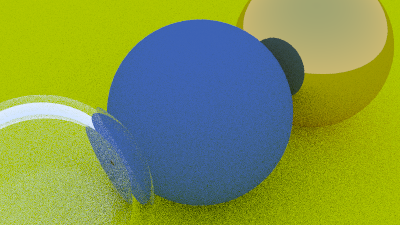
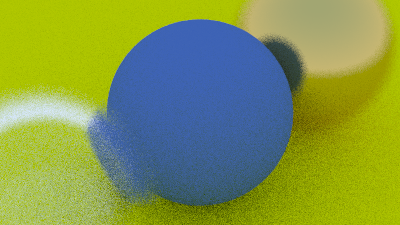
[13] - Defocus Blur

diff --git a/utils/camera.py b/utils/camera.py
@@ -1,5 +1,5 @@
 from .point import Point
-from .vector import Vector
+from .vector import Vector, random_in_unit_disk
 from .ray import Ray
 from .hittable import Hittable, HitRecord
 from .color import Color
@@ -20,12 +20,16 @@ class Camera:
     u: Vector
     v: Vector
     w: Vector
+    defocus_disk_u: Vector
+    defocus_disk_v: Vector
     samples_per_pixel: int = 10
     max_depth: int = 10
     vfov: float = 90
     lookfrom: Point = Point(0, 0, -1)
     lookat: Point = Point(0, 0, 0)
     vup: Vector = Vector(0, 1, 0)
+    defocus_angle: float = 0
+    focus_dist: float = 10
 
     def initialize(self) -> None:
         self.image_height: int = int(self.image_width / self.aspect_ratio)
@@ -33,10 +37,10 @@ class Camera:
         self.center = self.lookfrom
 
         # Determine viewport dimensions.
-        focal_length: float = (self.lookfrom - self.lookat).length
+        # focal_length: float = (self.lookfrom - self.lookat).length
         theta: float = degrees_to_radians(self.vfov)
         h = tan(theta / 2)
-        viewport_height: float = 2 * h * focal_length
+        viewport_height = 2 * h * self.focus_dist
         viewport_width: float = viewport_height * (self.image_width / self.image_height)
 
         # Calculate the u,v,w unit basis vectors for the camera coordinate frame.
@@ -54,11 +58,18 @@ class Camera:
 
         # Calculate the location of the upper left pixel.
         viewport_upper_left: Point = (
-            self.center - (focal_length * self.w) - viewport_u / 2 - viewport_v / 2
+            self.center - (self.focus_dist * self.w) - viewport_u / 2 - viewport_v / 2
         )
         self.pixel00_loc = viewport_upper_left + 0.5 * (
             self.pixel_delta_u + self.pixel_delta_v
         )
+
+        # Calculate the camera defocus disk basis vectors.
+        defocus_radius = self.focus_dist * tan(
+            degrees_to_radians(self.defocus_angle / 2)
+        )
+        self.defocus_disk_u = self.u * defocus_radius
+        self.defocus_disk_v = self.v * defocus_radius
 
     def render(self, world: Hittable) -> None:
         self.initialize()
@@ -96,7 +107,9 @@ class Camera:
             self.pixel00_loc + (i * self.pixel_delta_u) + (j * self.pixel_delta_v)
         )
         pixel_sample = pixel_center + self.pixel_sample_square()
-        ray_origin = self.center
+        ray_origin = (
+            self.center if (self.defocus_angle <= 0) else self.defocus_disk_sample()
+        )
         ray_direction = pixel_sample - ray_origin
 
         return Ray(ray_origin, ray_direction)
@@ -105,3 +118,7 @@ class Camera:
         px = -0.5 + random_double()
         py = -0.5 + random_double()
         return (px * self.pixel_delta_u) + (py * self.pixel_delta_v)
+
+    def defocus_disk_sample(self) -> Point:
+        p: Vector = random_in_unit_disk()
+        return self.center + (p.x * self.defocus_disk_u) + (p.y * self.defocus_disk_v)

diff --git a/main.py b/main.py
@@ -13,18 +13,10 @@ def main() -> None:
     ## World
     world: HittableList = HittableList()
 
-    R: float = cos(PI / 4)
-
-    # material_left: Lambertian = Lambertian(Color(0, 0, 1))
-    # material_right: Lambertian = Lambertian(Color(1, 0, 0))
-
     material_ground: Lambertian = Lambertian(Color(0.8, 0.8, 0))
     material_center: Lambertian = Lambertian(Color(0.1, 0.2, 0.5))
     material_left: Dielectric = Dielectric(1.5)
     material_right: Metal = Metal(Color(0.8, 0.6, 0.2), 0)
-
-    # world.add(Sphere(Point(-R, 0, -1), R, material_left))
-    # world.add(Sphere(Point(R, 0, -1), R, material_right))
 
     world.add(Sphere(Point(0, -100.5, -1), 100, material_ground))
     world.add(Sphere(Point(0, 0, -1), 0.5, material_center))
@@ -42,6 +34,8 @@ def main() -> None:
     cam.lookfrom = Point(-2, 2, 1)
     cam.lookat = Point(0, 0, -1)
     cam.vup = Vector(0, 1, 0)
+    cam.defocus_angle = 10.0
+    cam.focus_dist = 3.4
     cam.render(world)
 
 

diff --git a/utils/vector.py b/utils/vector.py
@@ -148,11 +148,18 @@ def cross_product(vecA: Type[Vector], vecB: Type[Vector]) -> Type[Vector]:
         )
 
 
-def unit_vector(vec: Type[Vector]) -> Vector:
+def unit_vector(vec: Vector) -> Vector:
     if isinstance(vec, Vector):
         return vec / vec.length
     else:
         raise TypeError(f"Type of '{type(vec).__qualname__}' isn't supported")
+
+
+def random_in_unit_disk() -> Vector:
+    while True:
+        p: Vector = Vector(random_double(-1, 1), random_double(-1, 1), 0)
+        if p.length_sq < 1:
+            return p
 
 
 def random_in_unit_sphere() -> Vector:
